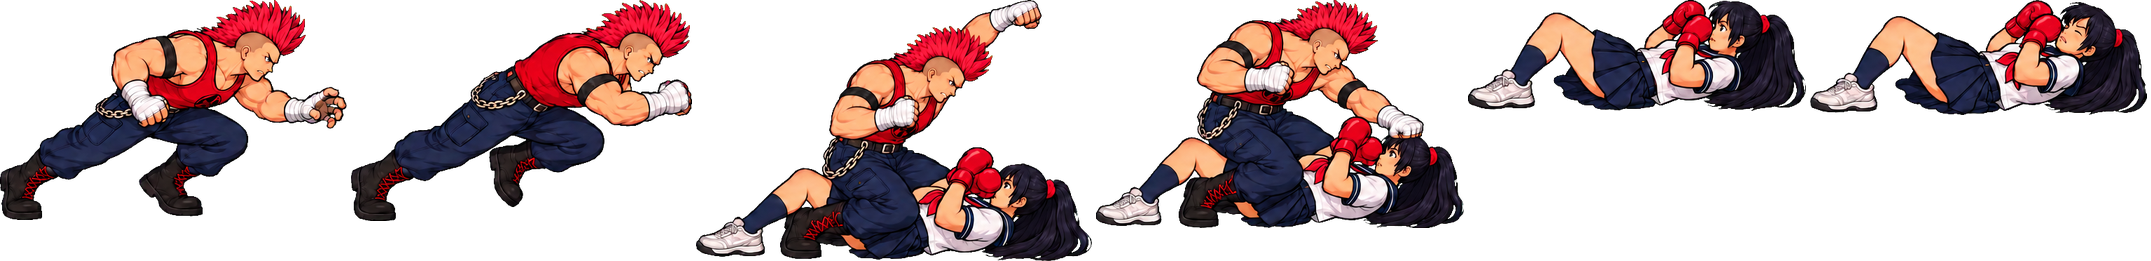
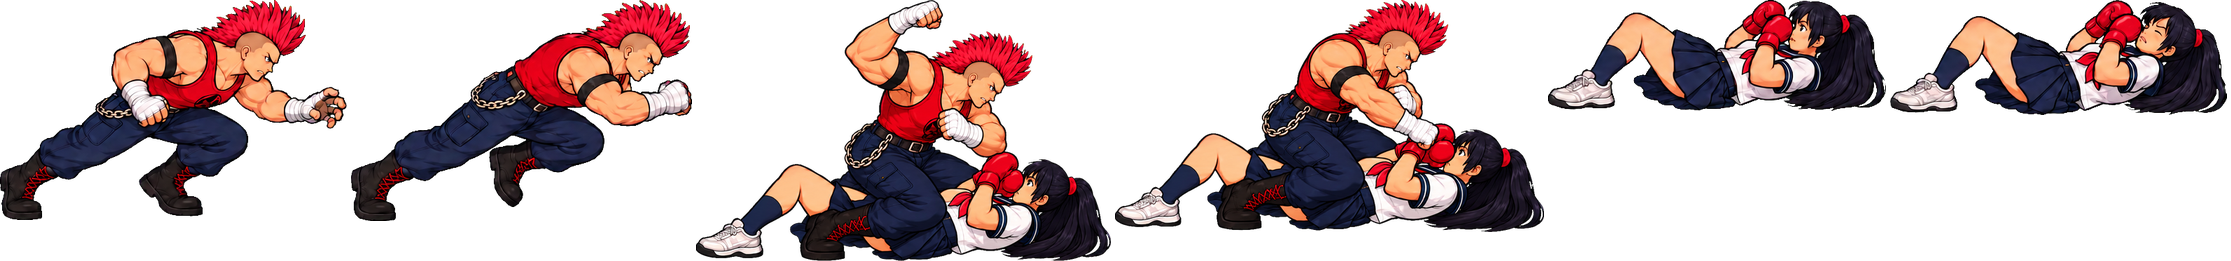
fix: keep the same near arm throughout mount punches

diff --git a/assets/characters/mount_v1.js b/assets/characters/mount_v1.js
@@ -1,1 +1,1 @@
-window.SPR_MOUNT={"frames": [{"x": 0, "y": 0, "w": 347, "h": 220, "ax": 173.41, "ay": 220, "sourceBounds": [35, 186, 530, 500], "paletteWidth": 347}, {"x": 351, "y": 0, "w": 341, "h": 221, "ax": 170.61, "ay": 221, "sourceBounds": [519, 184, 1006, 500], "paletteWidth": 341}, {"x": 696, "y": 0, "w": 396, "h": 261, "ax": 213.76, "ay": 261, "sourceBounds": [954, 136, 1519, 508], "paletteWidth": 242}, {"x": 1096, "y": 0, "w": 368, "h": 228, "ax": 198.63, "ay": 228, "sourceBounds": [10, 595, 535, 920], "paletteWidth": 224}, {"x": 1468, "y": 0, "w": 338, "h": 111, "ax": 169.2, "ay": 111, "sourceBounds": [541, 763, 1024, 921], "paletteWidth": 0}, {"x": 1810, "y": 0, "w": 337, "h": 115, "ax": 168.5, "ay": 115, "sourceBounds": [1039, 758, 1520, 922], "paletteWidth": 0}]};
+window.SPR_MOUNT={"frames": [{"x": 0, "y": 0, "w": 347, "h": 220, "ax": 173.41, "ay": 220, "sourceBounds": [35, 186, 530, 500], "paletteWidth": 347}, {"x": 351, "y": 0, "w": 341, "h": 221, "ax": 170.61, "ay": 221, "sourceBounds": [519, 184, 1006, 500], "paletteWidth": 341}, {"x": 696, "y": 0, "w": 415, "h": 261, "ax": 223.98, "ay": 261, "sourceBounds": [49, 41, 1039, 663], "paletteWidth": 253}, {"x": 1115, "y": 0, "w": 429, "h": 232, "ax": 231.92, "ay": 232, "sourceBounds": [1100, 116, 2125, 669], "paletteWidth": 262}, {"x": 1548, "y": 0, "w": 338, "h": 111, "ax": 169.2, "ay": 111, "sourceBounds": [541, 763, 1024, 921], "paletteWidth": 0}, {"x": 1890, "y": 0, "w": 337, "h": 115, "ax": 168.5, "ay": 115, "sourceBounds": [1039, 758, 1520, 922], "paletteWidth": 0}]};

diff --git a/street-angel.html b/street-angel.html
@@ -8,7 +8,7 @@
 <script src="enemy-restraint.js?v=9"></script>
 <script src="enemy-flanking.js?v=1"></script>
 <script src="enemy-mount.js?v=1"></script>
-<script src="assets/characters/mount_v1.js"></script>
+<script src="assets/characters/mount_v1.js?v=2"></script>
 <script src="assets/characters/aoi_assist_v1.js"></script>
 <script src="assets/characters/thug_assist_v1.js?v=2"></script>
 <script src="assets/characters/yankee_assist_v1.js?v=2"></script>
@@ -622,7 +622,7 @@ MOUNT_SPRITE.img.onload=()=>{
     MOUNT_SPRITE.palettes.push(c);
   }
 };
-MOUNT_SPRITE.img.src='assets/characters/mount_v1.png';
+MOUNT_SPRITE.img.src='assets/characters/mount_v1.png?v=2';
 function drawMount(e){
   if(!MOUNT_SPRITE.frames||!MOUNT_SPRITE.img.complete||!MOUNT_SPRITE.img.naturalWidth)return false;
   if(e.state==='mounting')return true; // Its linked player draws the paired pose once.

diff --git a/tools/pack_mount_sheet.py b/tools/pack_mount_sheet.py
@@ -13,6 +13,13 @@ ROOT=Path(__file__).resolve().parents[1]
 def main():
     source=ROOT/'source_art/character-v2/mount-source.png'
     poses=extract_poses(Image.open(source),3,2,'red')
+    arm_source=ROOT/'source_art/character-v2/mount-arms-v2-source.png'
+    arm_poses=extract_poses(Image.open(arm_source),2,1,'red')
+    # One shared scale for both corrected poses; keep the original world size.
+    pair_scale=poses[2][0].height/arm_poses[0][0].height
+    for index,(im,ax,bounds) in enumerate(arm_poses):
+        im=im.resize((round(im.width*pair_scale),round(im.height*pair_scale)),Image.Resampling.LANCZOS)
+        poses[index+2]=(im,ax*pair_scale,bounds)
     group=[]
     for index,(im,_,bounds) in enumerate(poses):
         # Torso anchor rather than foot anchor for horizontal and paired poses.
@@ -25,6 +32,8 @@ def main():
     atlas.save(output,optimize=True)
     output.with_suffix('.js').write_text('window.SPR_MOUNT='+json.dumps({'frames':frames})+';\n',encoding='utf-8')
     report={'sourceSha256':hashlib.sha256(source.read_bytes()).hexdigest(),
+            'armSourceSha256':hashlib.sha256(arm_source.read_bytes()).hexdigest(),
+            'pairScale':pair_scale,
             'atlasSha256':hashlib.sha256(output.read_bytes()).hexdigest(),
             'sourceSize':list(Image.open(source).size),'frameCount':6,'scale':scale,
             'background':'chroma green removed using existing key_background pipeline'}

diff --git a/tests/test_mount_assets.py b/tests/test_mount_assets.py
@@ -11,6 +11,7 @@ class MountAssetsTests(unittest.TestCase):
         atlas=root/'assets/characters/mount_v1.png'
         report=json.loads((atlas.parent/'mount-validation.json').read_text())
         self.assertEqual(report['sourceSha256'],hashlib.sha256(source.read_bytes()).hexdigest())
+        self.assertEqual(report['armSourceSha256'],hashlib.sha256((source.parent/'mount-arms-v2-source.png').read_bytes()).hexdigest())
         self.assertEqual(report['atlasSha256'],hashlib.sha256(atlas.read_bytes()).hexdigest())
         im=Image.open(atlas)
         self.assertEqual(im.mode,'RGBA');self.assertEqual(im.getextrema()[3],(0,255))
